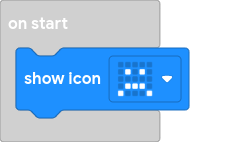
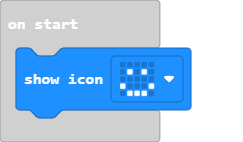
Happy

diff --git a/main.ts b/main.ts
@@ -1,4 +1,4 @@
-basic.showIcon(IconNames.Sad)
+basic.showIcon(IconNames.Happy)
 basic.forever(function () {
 	
 })
